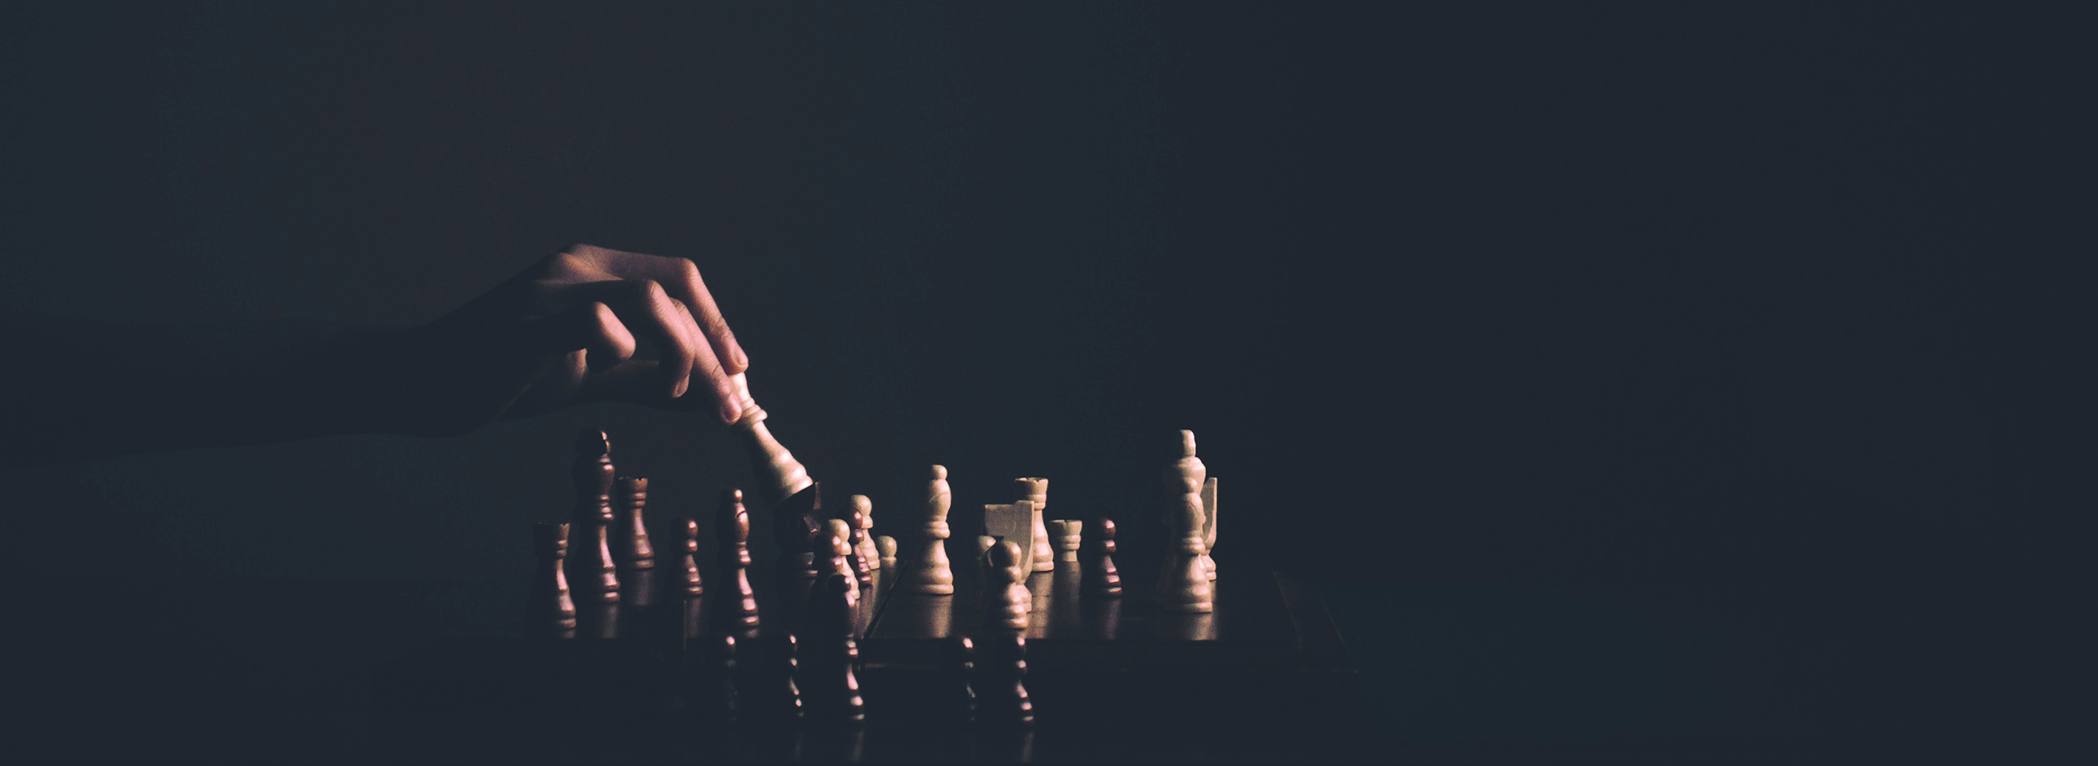
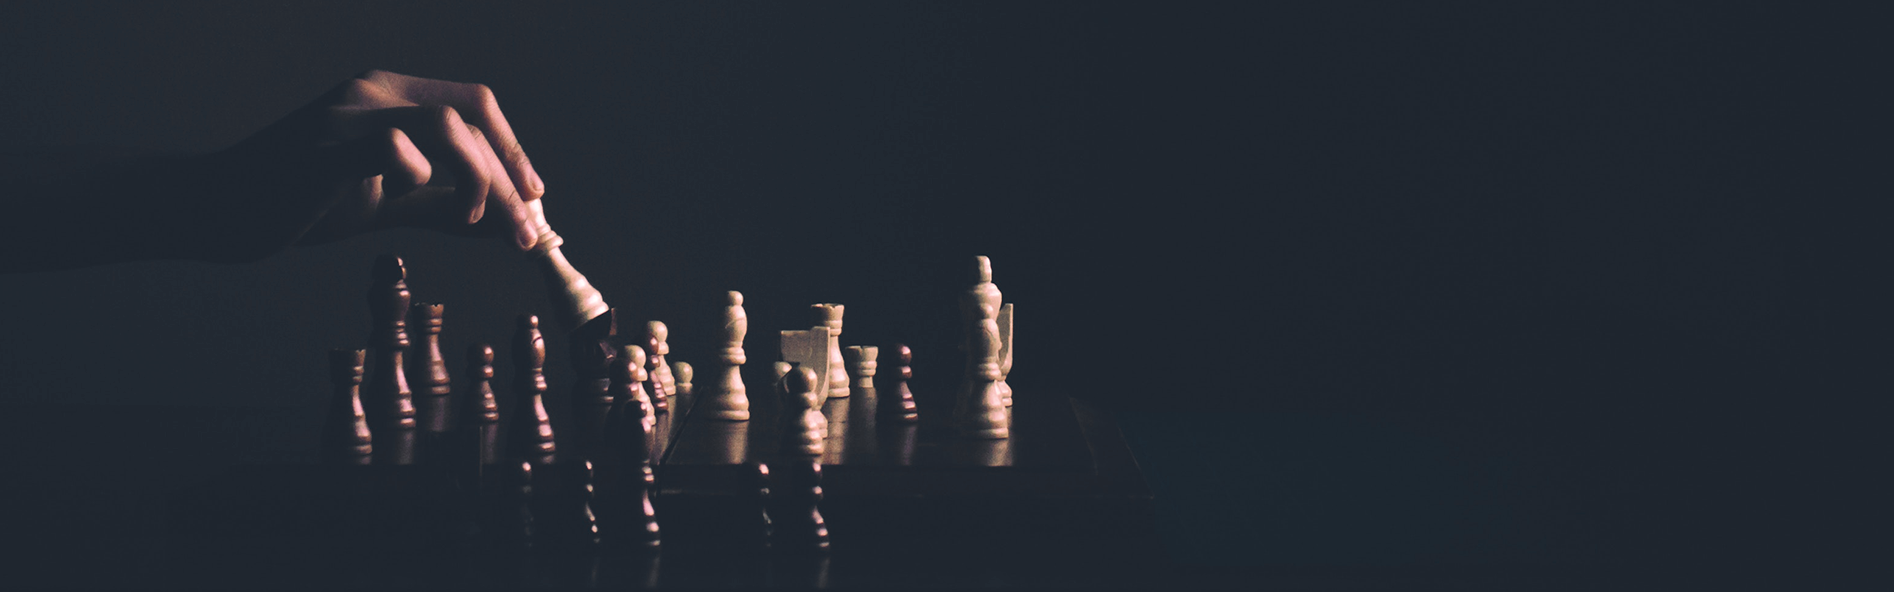
better hero styling, class selection, also the board tiles are tinted blue now.

diff --git a/app/assets/stylesheets/master.scss b/app/assets/stylesheets/master.scss
@@ -1,10 +1,28 @@
 @import "bootstrap";
 @import url('https://fonts.googleapis.com/css?family=Francois+One');
 @import url('https://fonts.googleapis.com/css?family=Didact+Gothic');
+h1 {
+	color: black;
+	font-size: 72px;
+	font-family: 'Francois One', sans-serif;
+	padding-top: 10px;
+}
+
+h2 {
+  color: black;
+	font-family: 'Francois One', sans-serif;
+	font-size: 32px;
+
+}
+
+h3 {
+  color: black;
+  font-family: 'Francois One', sans-serif;
+}
 
 .navbar {
   background: #62757f;
-  
+  position: relative;
 }
 
 .main-nav {
@@ -30,37 +48,29 @@ a.navbar-brand.logo {
 }
 
 .hero {
-  background: image_url('hero.png') no-repeat;
-  background-size: 100%;
-  height: 400px;
-  width: 100%;
-  max-width: 100%;
+  content: url('hero.png');
+  width: 100vw;
+  position: relative;
+  z-index: -1;
 }
 
-.frosted h1, h2 {
+.frosted {
+  position: absolute;
+  top: 75px;
+  right: 10px;
+  padding: 15px 30px 15px 30px;
+  width: 45vw;
   text-align: right;
 }
 
-
-h1 {
-	color: white;
-	font-size: 72px;
-	font-family: 'Francois One', sans-serif;
-	text-align: center;
-	padding-top: 10px;
+.frosted h1{
+  color: rgb(193,213,224);
 }
 
-h2 {
-  color: white;
-	font-family: 'Francois One', sans-serif;
-	font-size: 32px;
-	text-align: center;
+.frosted h2 {
+  color: rgb(98,117,127);
 }
 
-h3 {
-  color: black;
-  font-family: 'Francois One', sans-serif;
-}
 
 body {
   font-family: 'Didact Gothic', sans-serif;
@@ -68,7 +78,7 @@ body {
 }
 
 .booyah-box {
-  background: #c1d5e0;
+  background: rgba(193,213,224,.95);
   color: white;
   padding: 40px;
 }
@@ -97,8 +107,6 @@ body {
 
 .available-games {
   font-size: 48px;
-  margin-top: 50px;
-  margin-bottom: 20px;
 }
 
 .board-container {
@@ -108,7 +116,6 @@ body {
   margin-left: auto;
   margin-right: auto;
   background-color: black;
-  box-shadow: 5px 5px;
 }
 
 #board td {
@@ -134,14 +141,7 @@ body {
 }
 
 
-h1, h2, h3, h4, h5, h6, .navbar, .container .hero {
+.navbar, .container, .hero {
   margin: 0;
-  padding: 0;
 }
 
-.frosted {
-  position: absolute;
-  top: 200px;
-  right: 10px;
-  padding: 15px 30px 15px 30px;
-}
